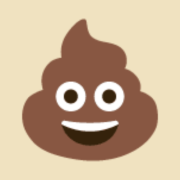
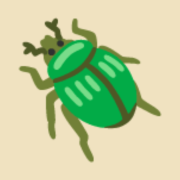
着せ替えのアイコンを主役の絵にする
フンコロガシは🪲、リスは🐿。ふつうは荷物(📦)のまま。
撮影用ページの見本も合わせた。

Claude-Session: https://claude.ai/code/session_01RoNZTmHrjmAjHdLLeAM9DZ

diff --git a/warehouse/icon-shot.html b/warehouse/icon-shot.html
@@ -47,10 +47,11 @@
 
 <script>
   // 着せ替えごとの、荷物の絵と床の色
+  // アイコンにするのは、ふつうは荷物、着せ替えは主役のほう
   const SKINS = [
-    ['ふつう',      '📦', '#eef2f9'],
-    ['フンコロガシ','💩', '#f0e2c0'],
-    ['リス',        '🌰', '#eaf1d8'],
+    ['ふつう',      '📦',  '#eef2f9'],
+    ['フンコロガシ','🪲',  '#f0e2c0'],
+    ['リス',        '🐿', '#eaf1d8'],
   ];
   // ゲームで使っている色。先頭が床の色
   const GREYS = ['#eef2f9','#f0e2c0','#eaf1d8','#f6f8fc','#ffffff','#55637f','#3f4c66','#1c2b46'];
